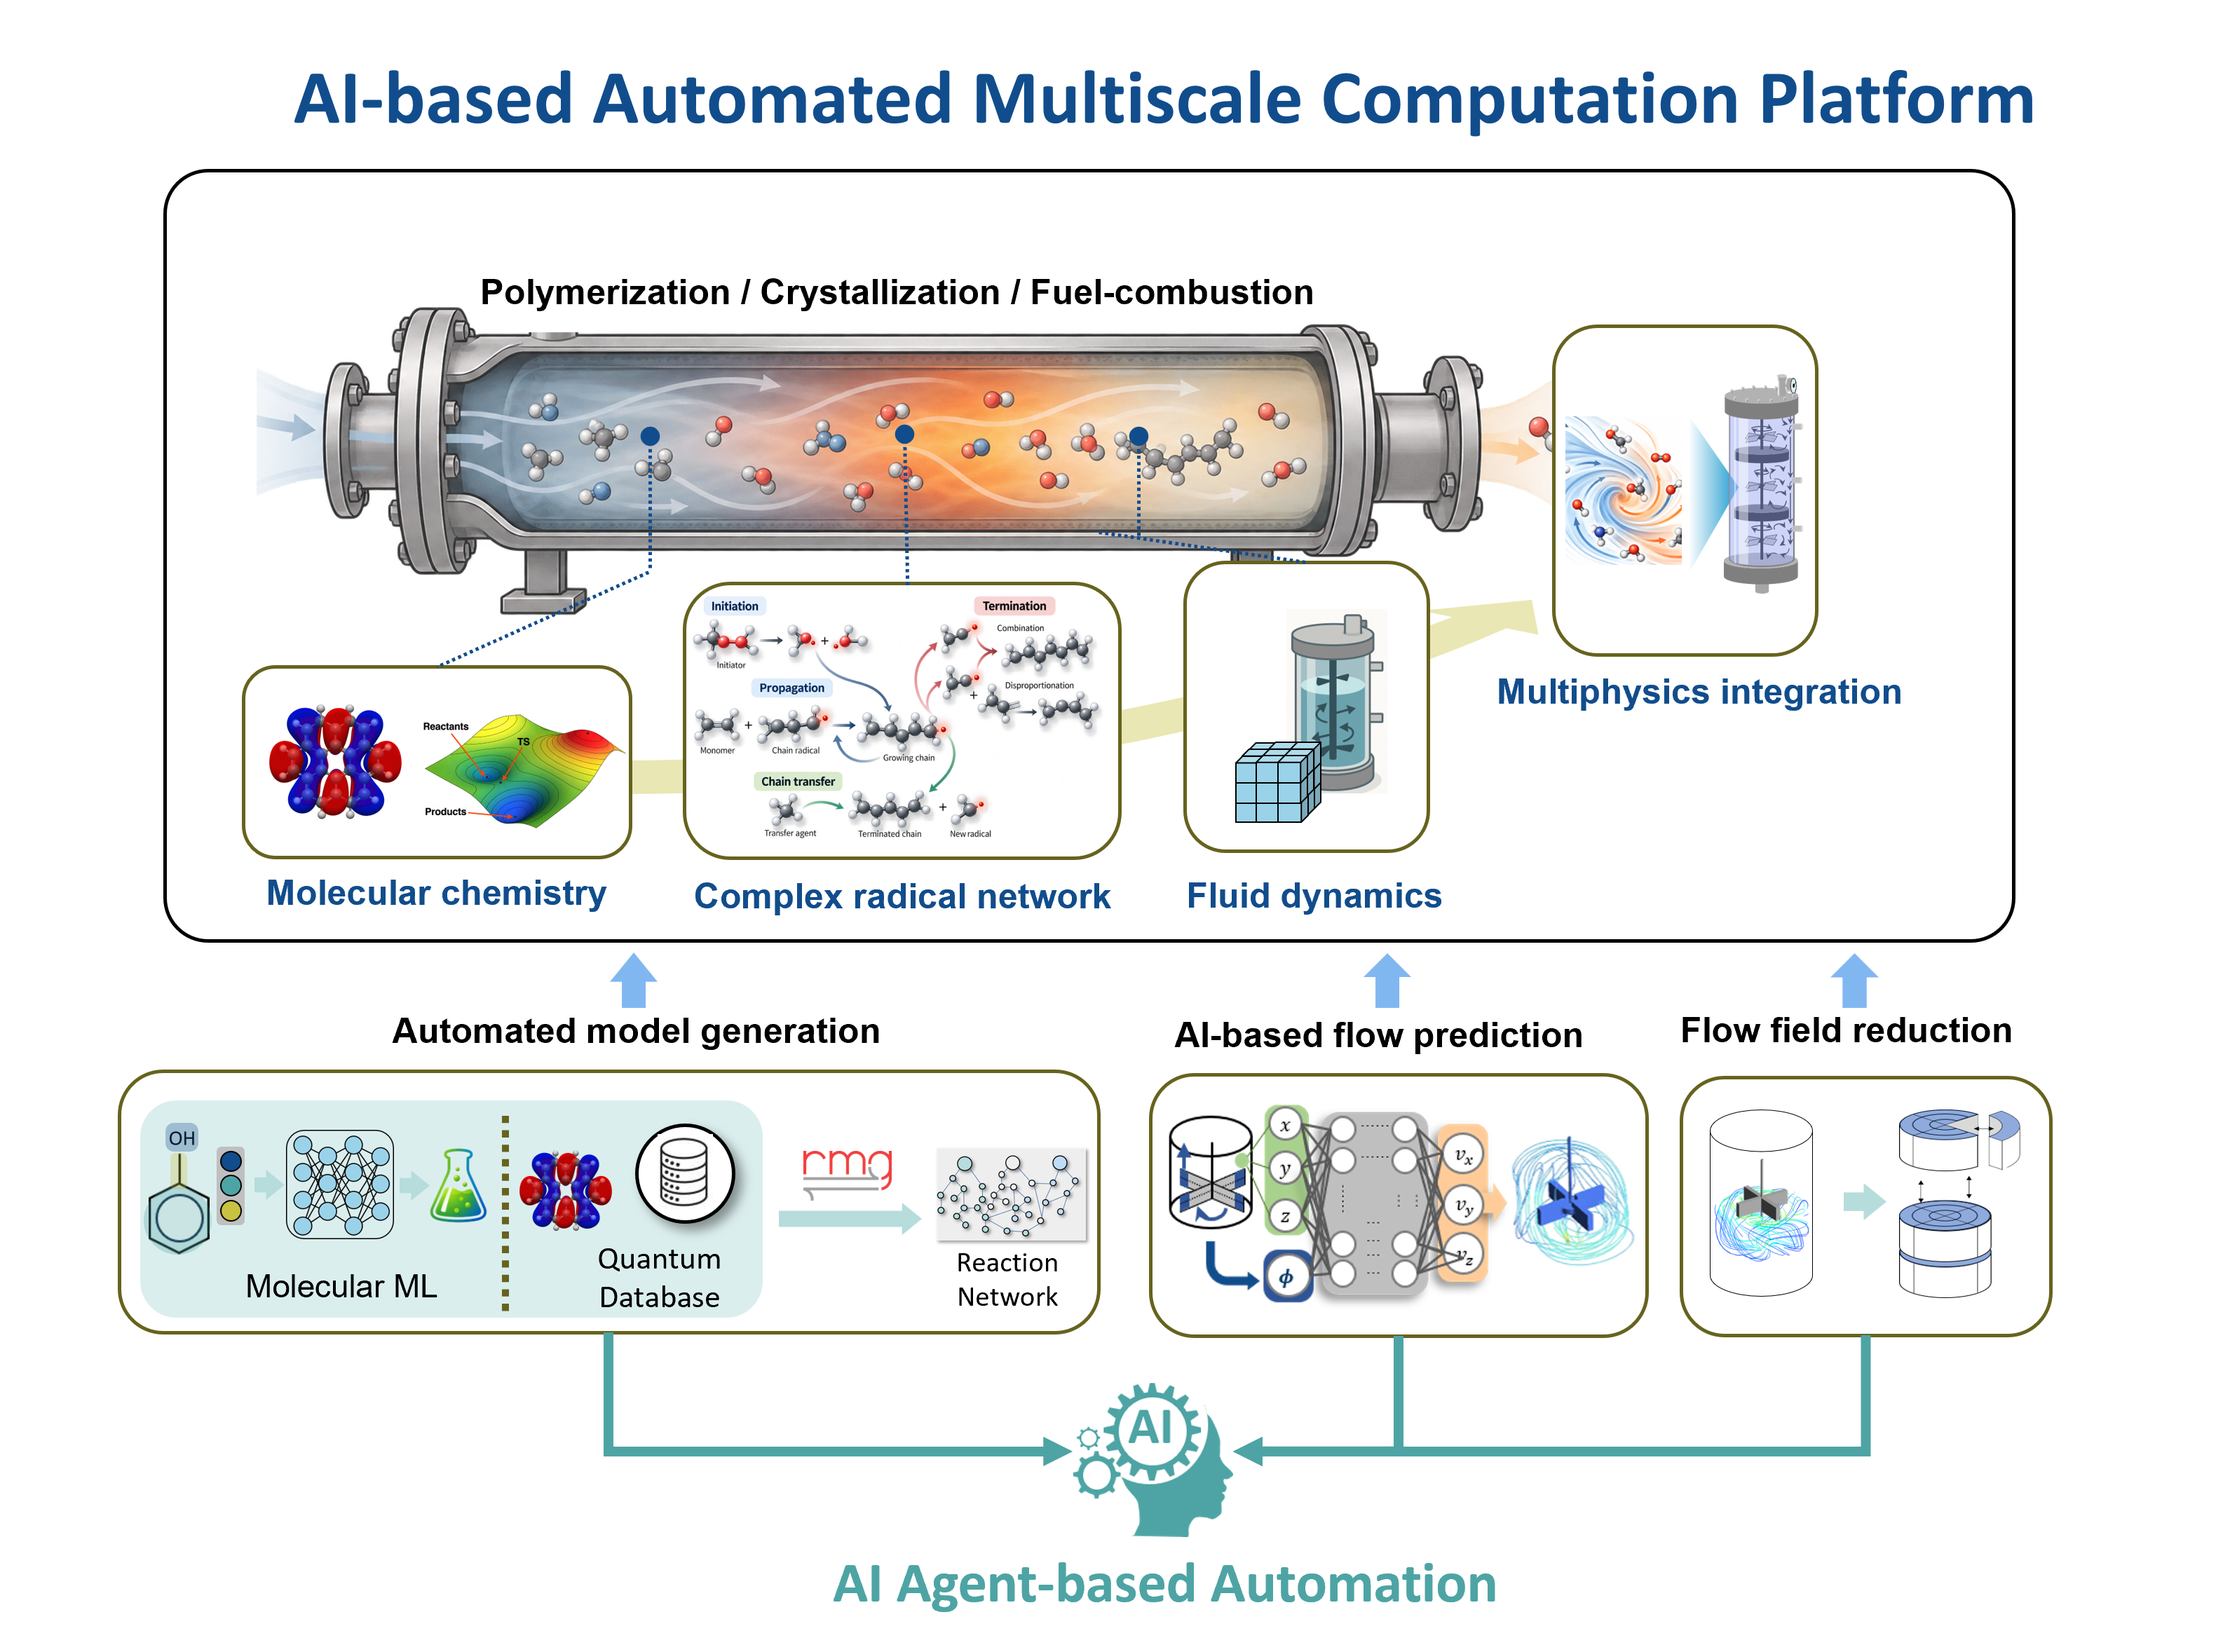
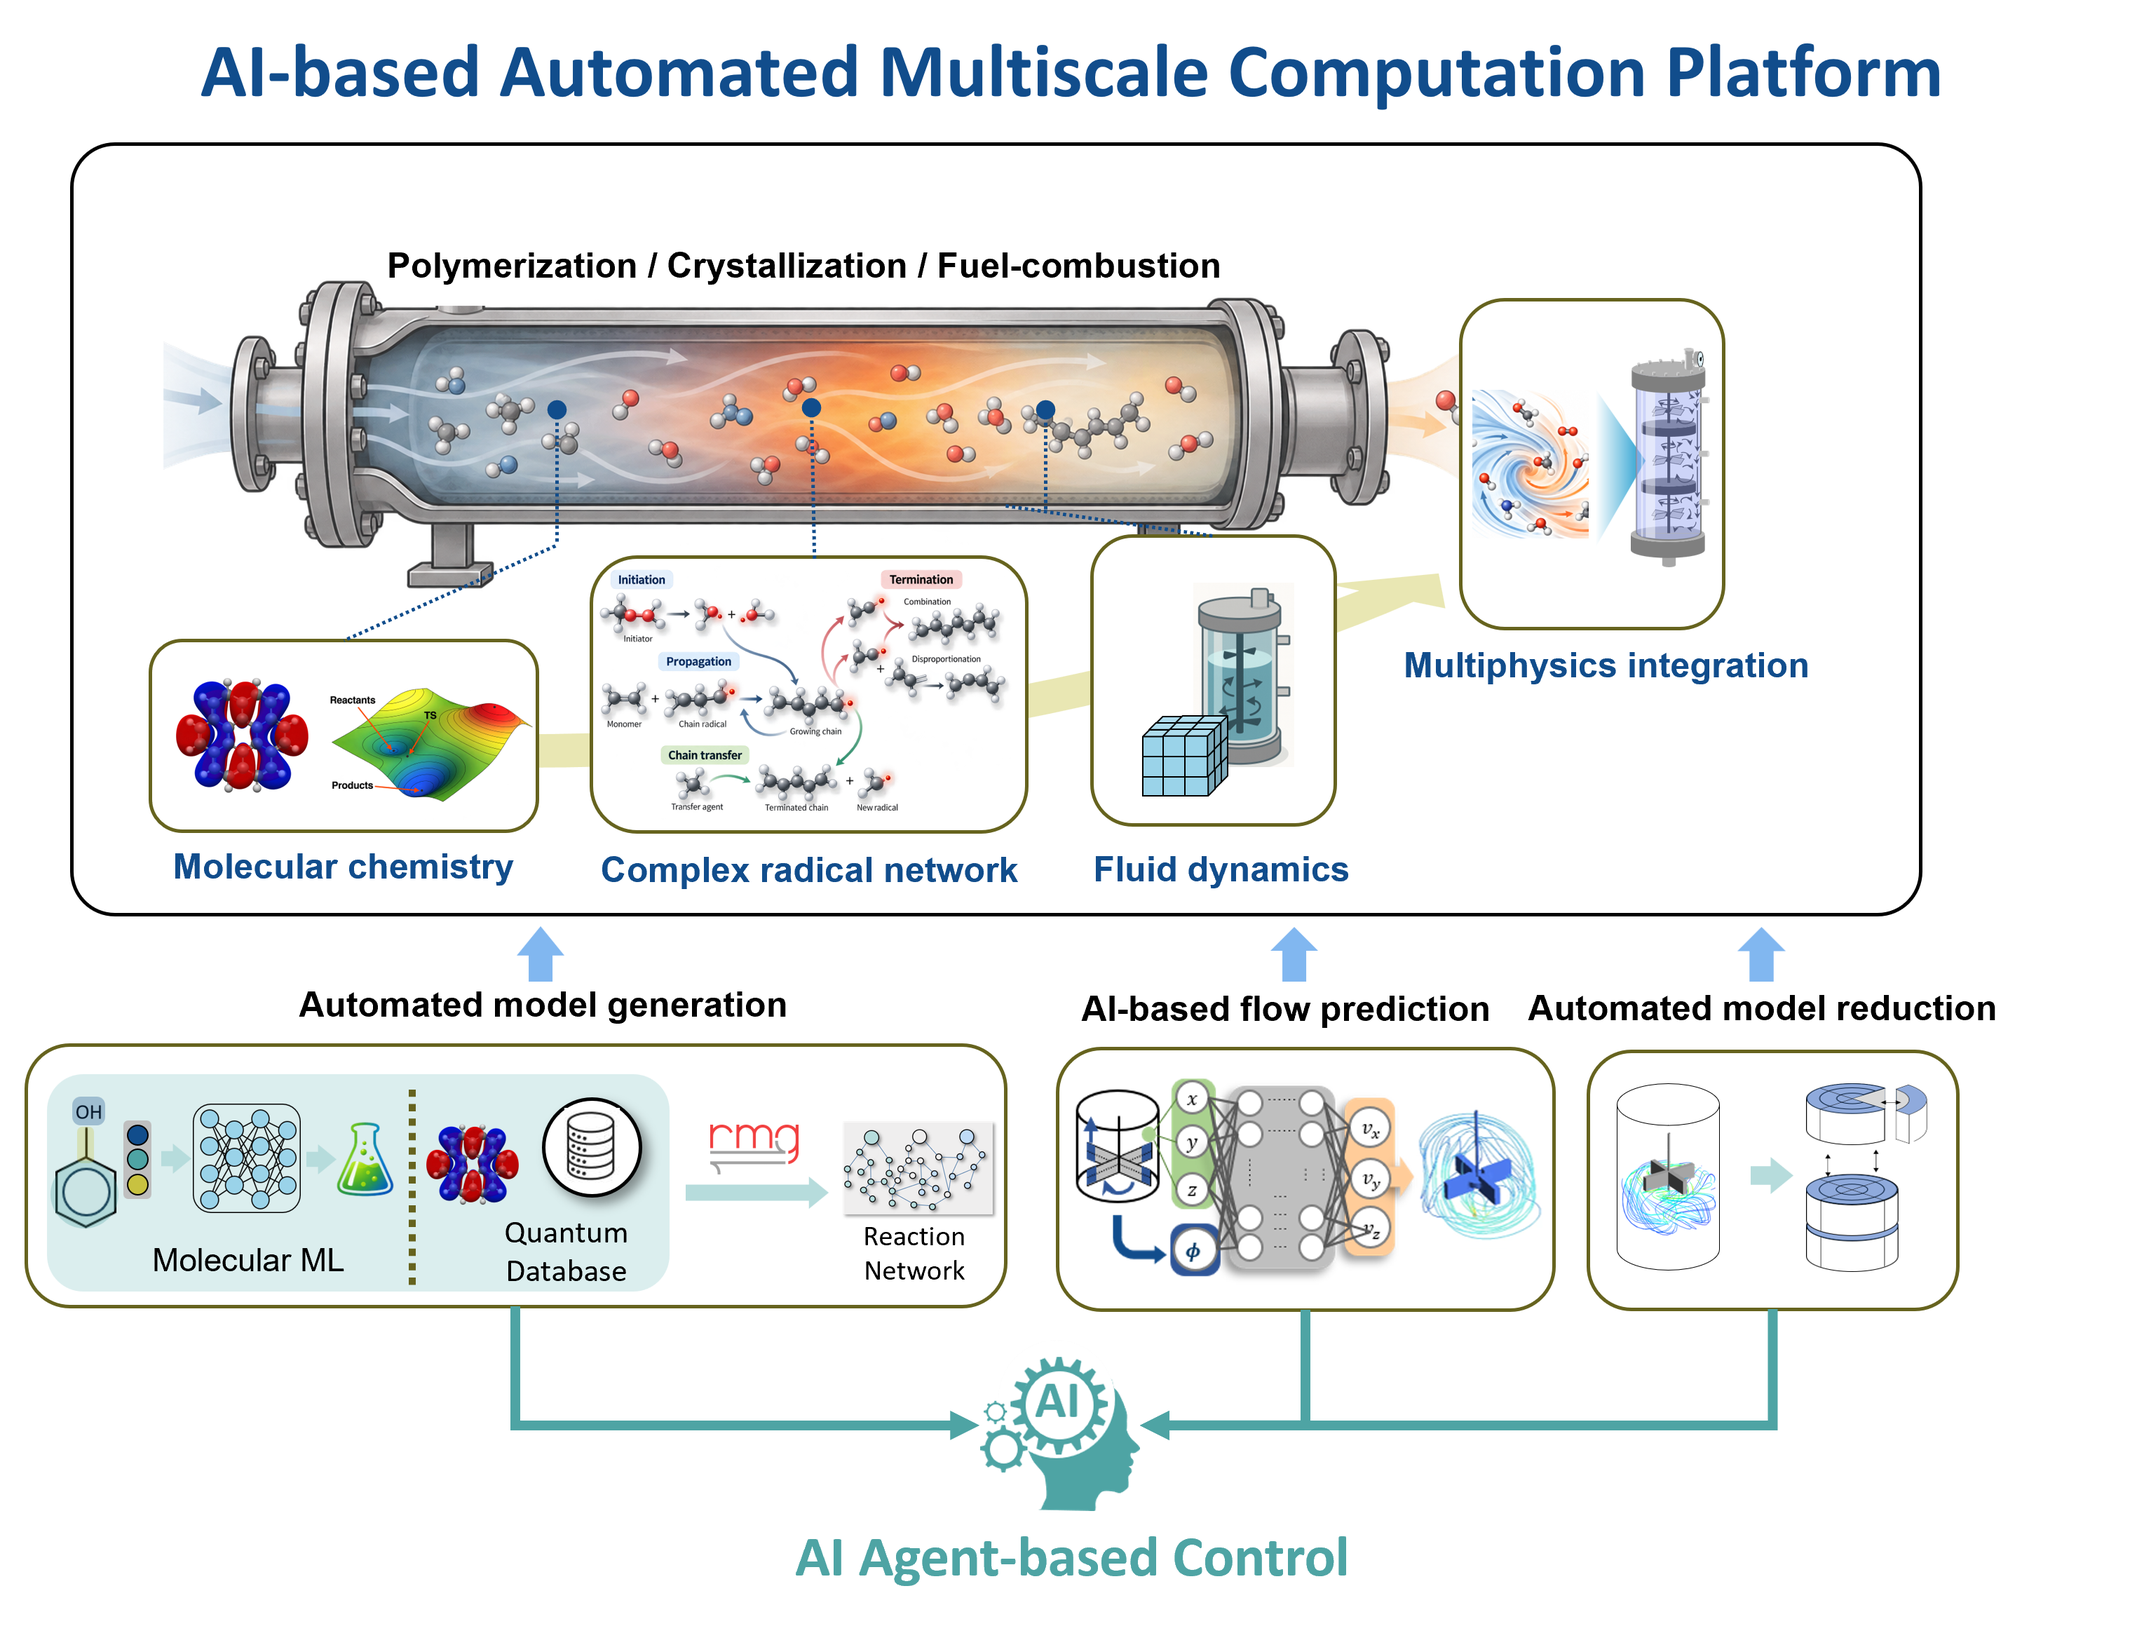
Update research framework figure

Changed region(s): [[0.0, 0.031, 0.932, 0.9935], [0.3728, 0.9314, 0.4039, 0.9625]]

diff --git a/index.html b/index.html
@@ -70,7 +70,7 @@
               <span>Research framework / Overview</span>
               <button class="zoom-figure" type="button" aria-label="Enlarge research framework figure">View larger ↗</button>
             </div>
-            <img src="assets/research-framework.png?v=20261022f" alt="Multiscale modeling framework integrating quantum chemistry, chemical kinetics, fluid dynamics, multiphysics, automated reaction networks, and AI" loading="lazy">
+            <img src="assets/research-framework.png?v=20261023c" alt="Multiscale modeling framework integrating quantum chemistry, chemical kinetics, fluid dynamics, multiphysics, automated reaction networks, and AI" loading="lazy">
             <div class="framework-caption">
               <b>Figure 01.</b>
               <span>Overview of my multiscale modeling framework and computational tools.</span>
@@ -340,7 +340,7 @@
     </main>
     <div class="figure-modal" role="dialog" aria-label="Enlarged research overview" aria-hidden="true">
       <button class="modal-close" type="button" aria-label="Close enlarged figure">×</button>
-      <img src="assets/research-framework.png?v=20261022f" alt="Enlarged multiscale modeling framework">
+      <img src="assets/research-framework.png?v=20261023c" alt="Enlarged multiscale modeling framework">
     </div>
     <footer class="footer">
       <div class="shell">
